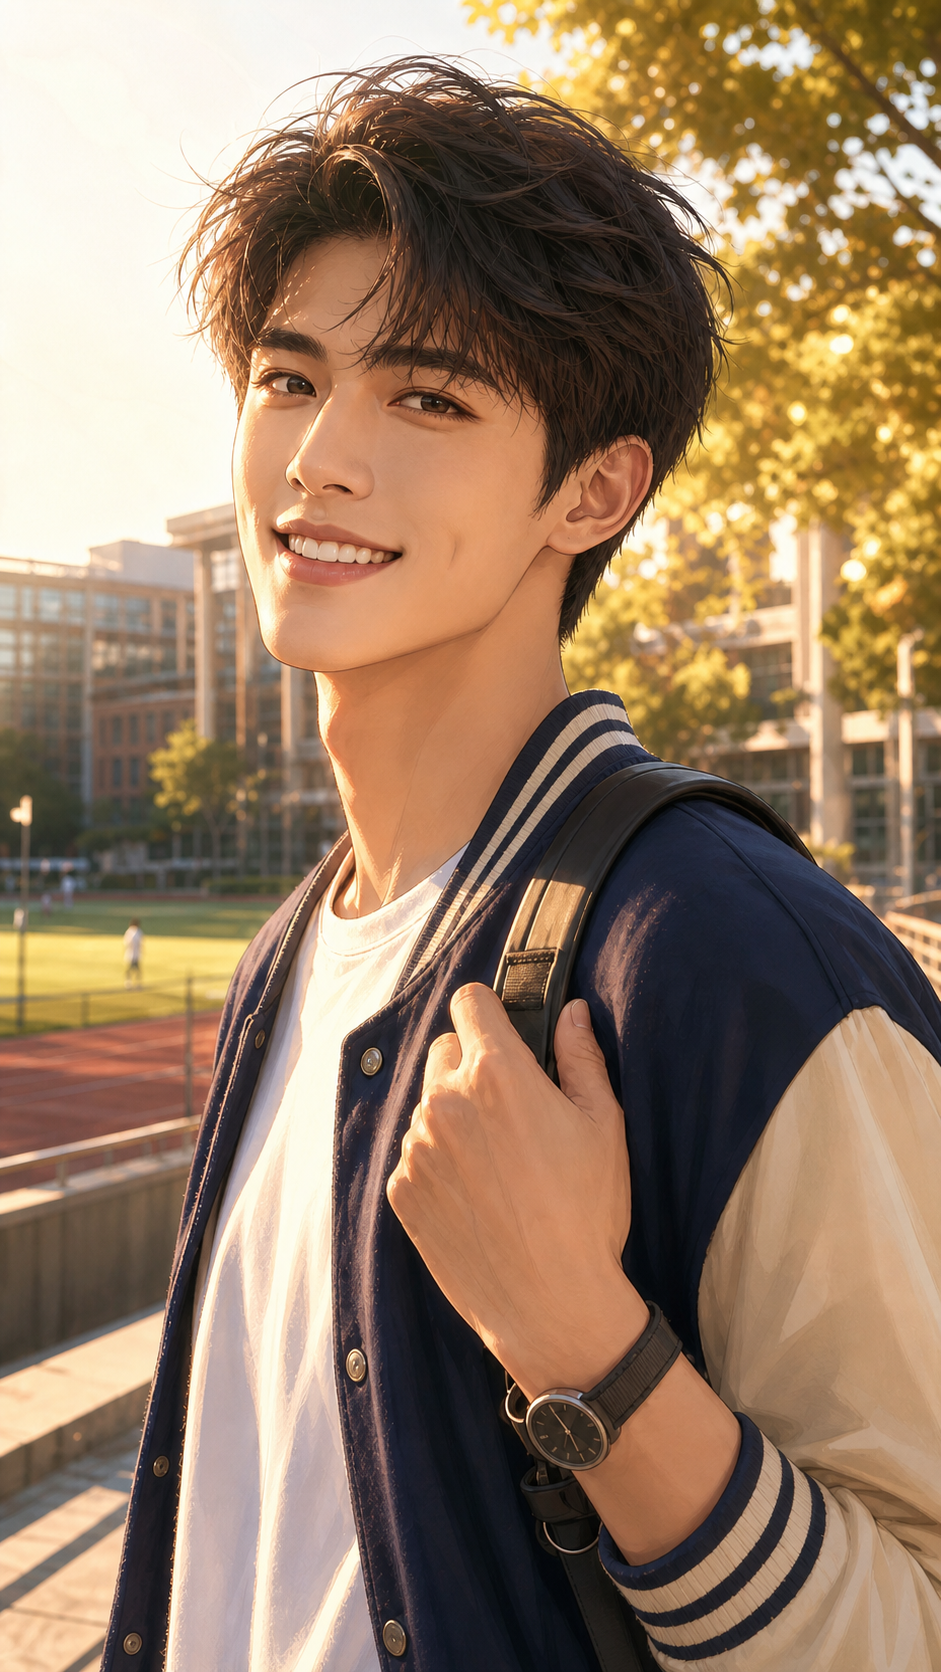
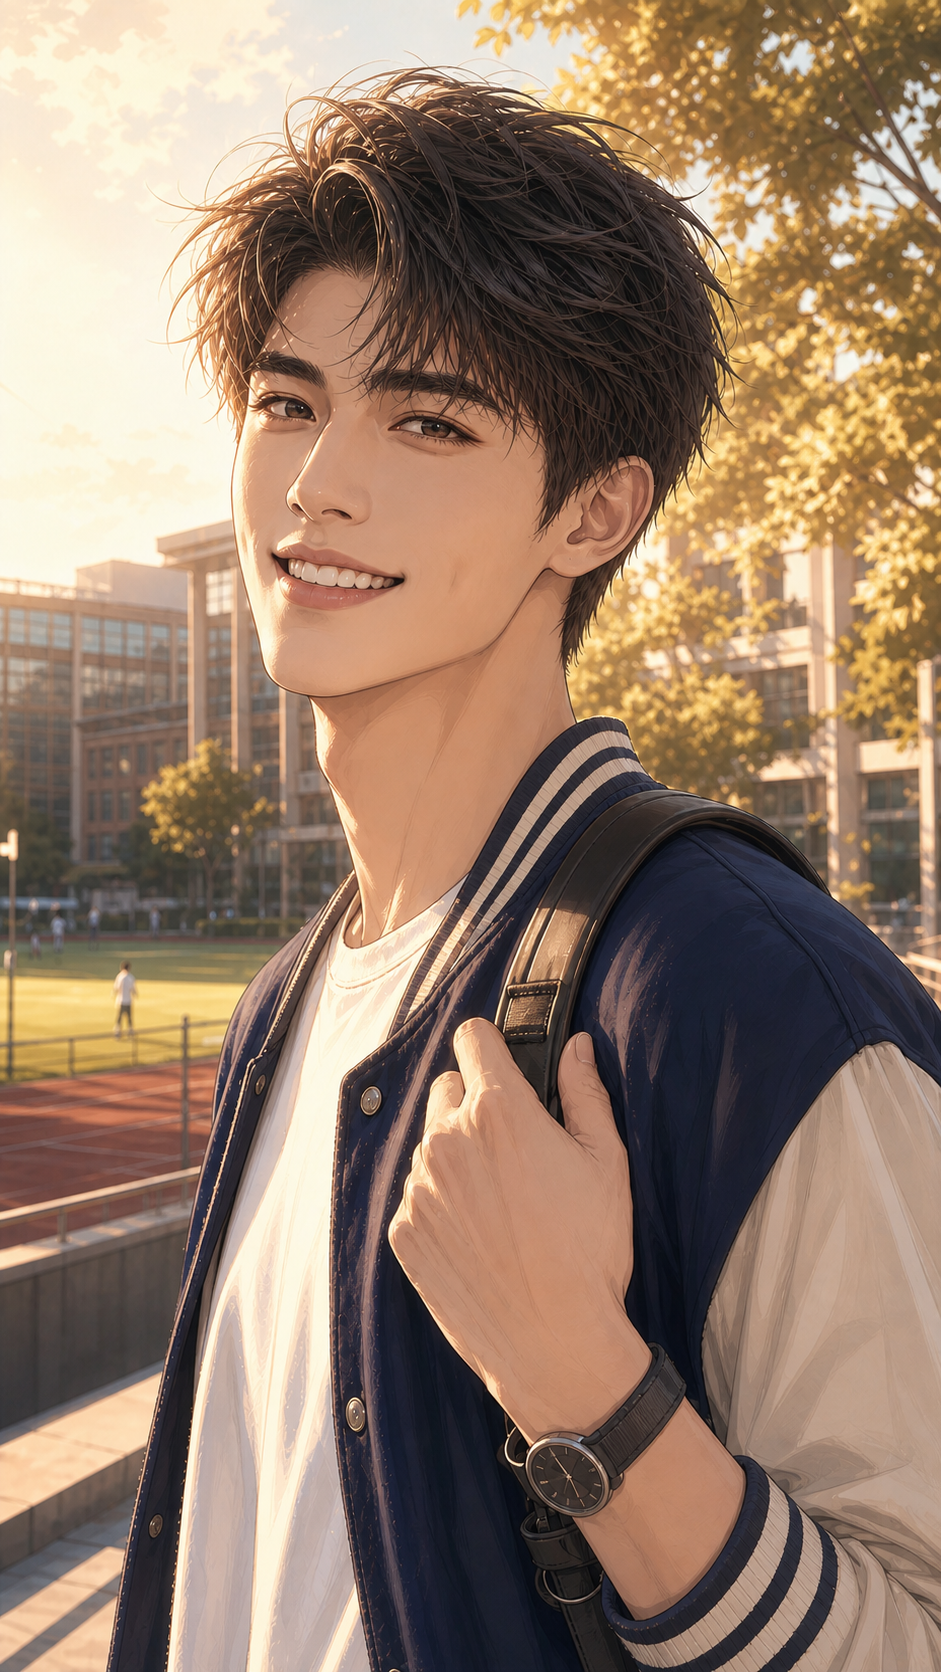
Unify character art and redesign companion voices

diff --git a/app/page.tsx b/app/page.tsx
@@ -83,9 +83,9 @@ const CHARACTERS: Record<CharacterId, CharacterProfile> = {
     heroTitle: "今天不用表现得很好。",
     heroSubline: "回来就够了。",
     greeting: "晚上好，小朋友。今天不用表现得很好，回来就够了。",
-    voiceStyle: "低沉克制 · 慢语速 · 安定感",
+    voiceStyle: "清冷低磁 · 克制亲密 · 不商务",
     voicePreview: "过来。今晚不用解释，我先陪你安静一会儿。",
-    voice: { rate: 0.78, pitch: 0.76, index: 0 },
+    voice: { rate: 0.9, pitch: 0.88, index: 0 },
     sleepScene: "雨夜档案馆",
     sleepLines: [
       "把今天最放不下的事，先留在这里。",
@@ -140,8 +140,8 @@ const CHARACTERS: Record<CharacterId, CharacterProfile> = {
     heroTitle: "今天辛苦了，换我来接你。",
     heroSubline: "走，去吹吹晚风。",
     greeting: "下课就来找你了。今天是不是又把自己排在最后？走，先陪你去吹吹风。",
-    voiceStyle: "清爽利落 · 青年感 · 明亮笑意",
-    voicePreview: "抓紧了。今天的风有点大，不过别怕，我会稳稳把你带回去。",
+    voiceStyle: "运动系低磁 · 阳光利落 · 不夹不软",
+    voicePreview: "下课了。我在操场边等你，慢慢来，今天的风刚好。",
     voice: { rate: 1.02, pitch: 0.95, index: 1 },
     sleepScene: "云上夜航",
     sleepLines: [
@@ -197,8 +197,8 @@ const CHARACTERS: Record<CharacterId, CharacterProfile> = {
     heroTitle: "别逞强。你藏得没那么好。",
     heroSubline: "今晚，不必对我隐藏。",
     greeting: "来了？你的沉默比平时重。坐近一点，我不喜欢隔着距离猜答案。",
-    voiceStyle: "清冷磁性 · 轻声戏谑 · 不压嗓",
-    voicePreview: "别急着猜我在想什么。今晚，你只需要看着我。",
+    voiceStyle: "清冷中音 · 年轻磁性 · 不厚重",
+    voicePreview: "别急着躲。今晚我心情不错，可以多纵容你一点。",
     voice: { rate: 0.92, pitch: 0.88, index: 2 },
     sleepScene: "午夜观景车厢",
     sleepLines: [
@@ -254,8 +254,8 @@ const CHARACTERS: Record<CharacterId, CharacterProfile> = {
     heroTitle: "夜很安静，你可以慢一点。",
     heroSubline: "我会听见你。",
     greeting: "欢迎回来。今晚不必急着说话，我们可以先听一会儿雨。",
-    voiceStyle: "松弛温暖 · 贴耳私语 · 无播音腔",
-    voicePreview: "灯关小一点吧。今天不用急着想明白，先靠着，慢慢呼吸。",
+    voiceStyle: "松弛男友感 · 温暖自然 · 不播音",
+    voicePreview: "灯别关得太快。再坐一会儿吧，我给你放首很轻的歌。",
     voice: { rate: 0.9, pitch: 0.96, index: 3 },
     sleepScene: "雨声修复室",
     sleepLines: [

diff --git a/app/api/tts/route.ts b/app/api/tts/route.ts
@@ -25,20 +25,20 @@ type MiniMaxResponse = {
 };
 
 const DEFAULT_VOICES: Record<CharacterId, string> = {
-  pei: "Chinese (Mandarin)_Reliable_Executive",
-  chi: "ttv-voice-2026072523103226-Ps97BrCs",
-  yan: "ttv-voice-2026072523104626-M4ZyY4Z1",
-  lu: "ttv-voice-2026072523111126-Ase2NkMO",
+  pei: "ttv-voice-2026072523240526-Omu0wD2C",
+  chi: "ttv-voice-2026072523425526-j8spGMFf",
+  yan: "ttv-voice-2026072523430526-zZfm7sFe",
+  lu: "ttv-voice-2026072523425726-5po0jdg9",
 };
 
 const VOICE_SETTINGS: Record<
   CharacterId,
   { speed: number; pitch: number; emotion: MiniMaxEmotion }
 > = {
-  pei: { speed: 0.92, pitch: -1, emotion: "calm" },
-  chi: { speed: 1.02, pitch: 0, emotion: "calm" },
-  yan: { speed: 0.96, pitch: 1, emotion: "calm" },
-  lu: { speed: 0.94, pitch: 0, emotion: "calm" },
+  pei: { speed: 0.94, pitch: 0, emotion: "calm" },
+  chi: { speed: 1.01, pitch: 0, emotion: "calm" },
+  yan: { speed: 0.98, pitch: 0, emotion: "calm" },
+  lu: { speed: 0.96, pitch: 0, emotion: "calm" },
 };
 
 const CHARACTER_IDS = new Set<CharacterId>(["pei", "chi", "yan", "lu"]);
@@ -114,7 +114,7 @@ export async function POST(request: Request) {
   }
 
   const voice = VOICE_SETTINGS[characterId];
-  const model = scene === "sleep" ? "speech-2.8-hd" : "speech-2.8-turbo";
+  const model = "speech-2.8-hd";
   const preparedText = scene === "sleep" ? sleepPacing(text) : text;
 
   let upstream: Response;

diff --git a/README.md b/README.md
@@ -6,14 +6,14 @@
 
 ## 四位角色
 
-- 裴叙白：克制守护型，低沉慢语速，擅长让混乱重新有秩序。
-- 迟曜：阳光年下型，航空学院大四生，清爽快语速，用行动和直接表达提供力量。
-- 谢临渊：危险掌控型，清冷轻戏谑，擅长看穿逞强并尊重边界。
-- 陆听澜：温柔疗愈型，温润留白感，适合倾听和睡前放松。
+- 裴叙白：克制守护型，清冷低磁声线，擅长让混乱重新有秩序。
+- 迟曜：阳光年下型，航空学院大四生，运动系低磁声线，用行动和直接表达提供力量。
+- 谢临渊：危险掌控型，清冷年轻中音，擅长看穿逞强并尊重边界。
+- 陆听澜：温柔疗愈型，松弛男友感声线，适合倾听和睡前放松。
 
 ## 已实现
 
-- 四人角色选择、独立视觉主题与本机选择记忆
+- 四人统一韩漫乙游画风、独立视觉主题与本机选择记忆
 - “抱抱我 / 陪我理清 / 逗我开心”三种陪伴模式
 - MiniMax M2-her 多轮动态对话、四套独立人格与上下文记忆
 - 四种 MiniMax 中文男声与独立声线试听，未配置时自动回退设备声线
@@ -22,7 +22,7 @@
 - 虚拟角色身份说明、情感边界与高风险内容提醒
 - 手机优先布局与桌面预览外壳
 
-当前对话使用 MiniMax M2-her，语音使用 MiniMax Speech 2.8：日常对话使用 Turbo，哄睡使用 HD；记忆只保存在浏览器本机。尚未接入云端账号和真人配音。
+当前对话使用 MiniMax M2-her，四位角色均使用专属设计声线，语音统一使用 MiniMax Speech 2.8 HD；记忆只保存在浏览器本机。尚未接入云端账号和真人配音。
 
 ## 自然语音配置
 
